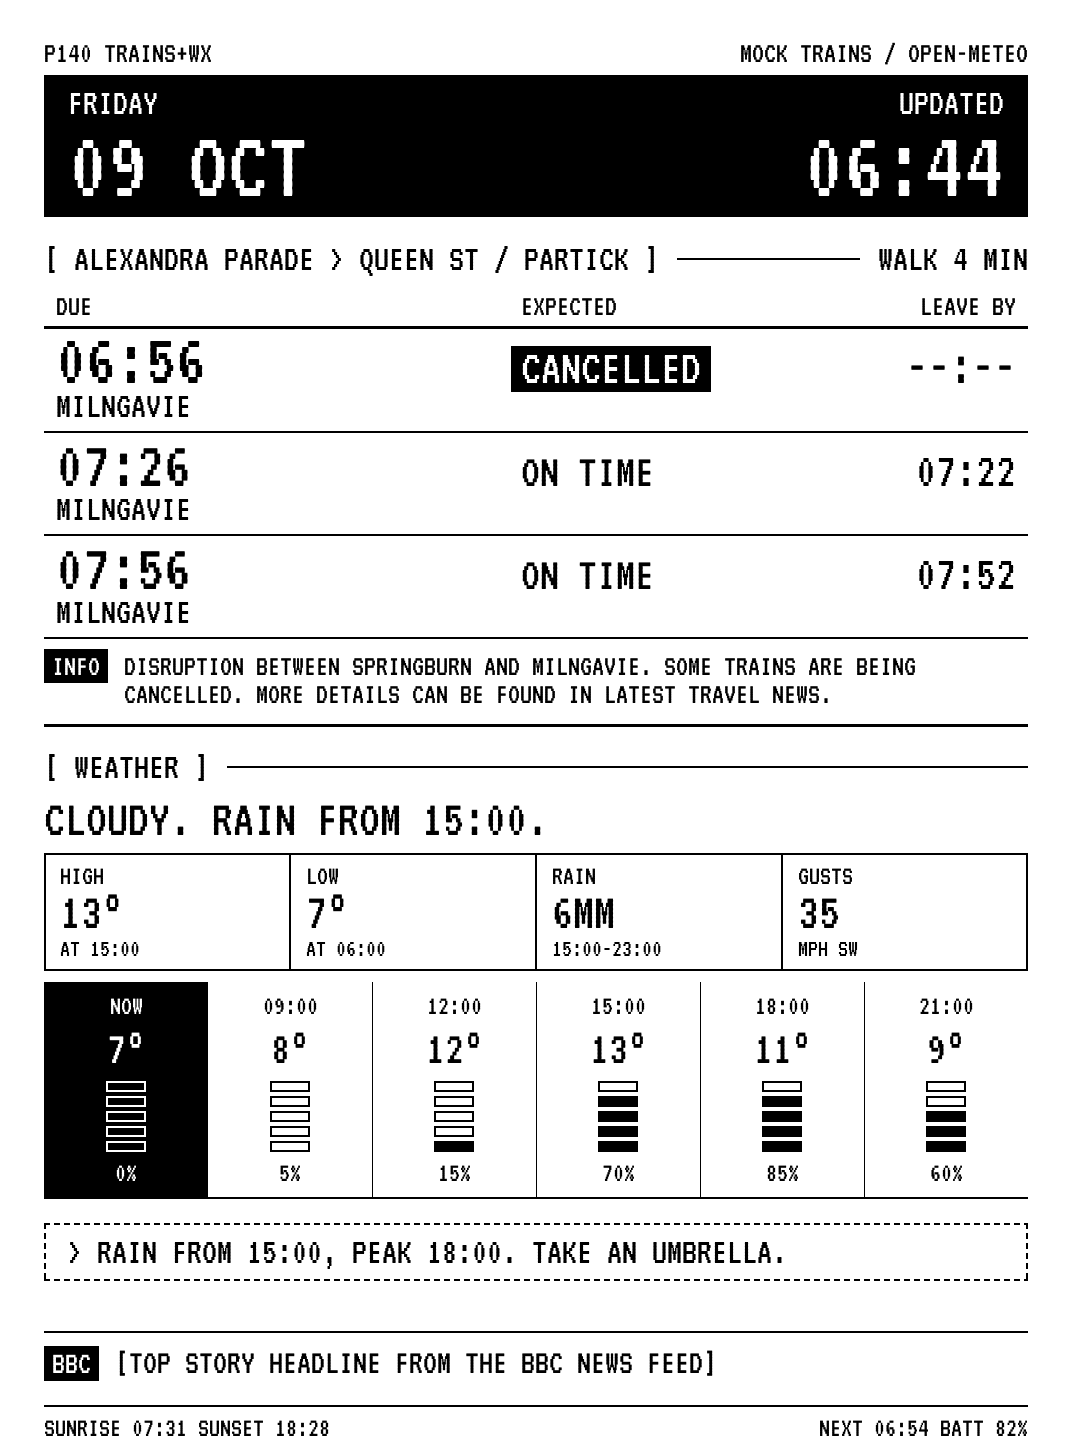
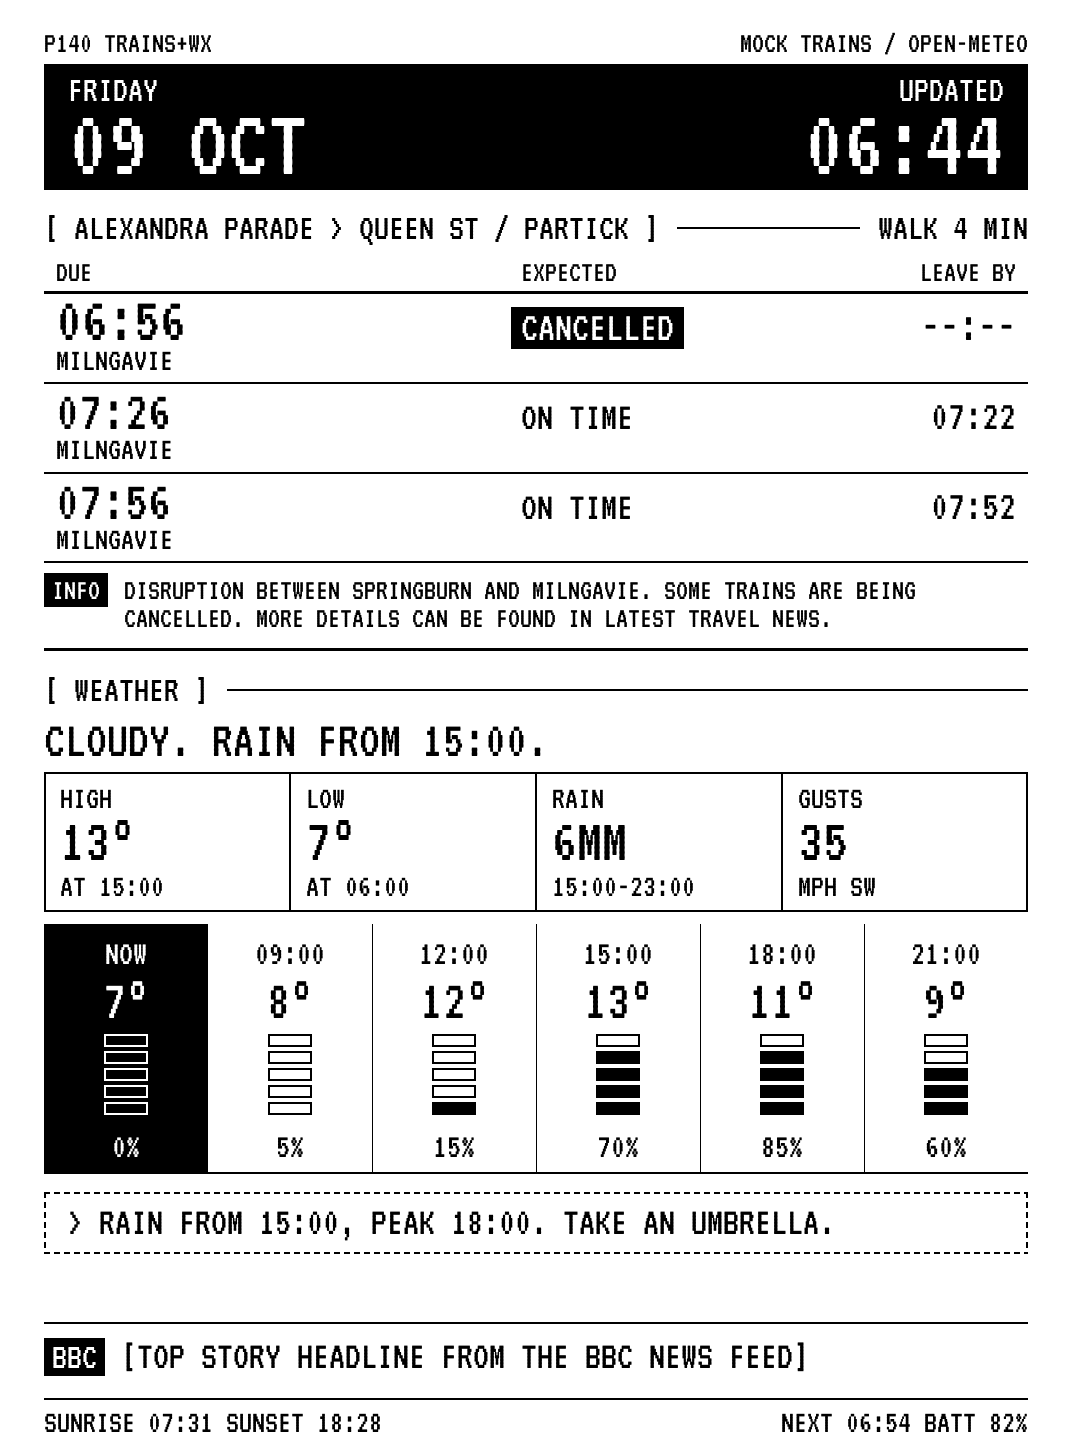
Enlarge the lower half of the dashboard
On the device the weather, headline and footer text read small. Take
space from the date band and train rows (132 -> 118 px each) and give it
to the bottom half:

- weather boxes: labels 27.5 -> 32.5, values 52.5 -> 62.5, sub-lines
  25 -> 32.5 (boxes 118 -> 140 px tall)
- hourly strip: times and percentages 27.5 -> 35, temperatures
  47.5 -> 57.5, bigger rain gauges
- notice 37.5 -> 40, headline 35 -> 40, footer 27.5 -> 32.5

Rows squeezed by a service message scale their text down slightly.
Positions are now named constants. Warm-up prepares the new sizes.

Claude-Session: https://claude.ai/code/session_019HivdSh6WRKFXGyqMKgbBE

Changed region(s): [[0.0308, 0.0, 0.9851, 0.8702], [0.0308, 0.9012, 0.9543, 0.9945]]

diff --git a/worker/src/layout.ts b/worker/src/layout.ts
@@ -1,5 +1,7 @@
-// Draws the dashboard. Positions follow docs/mockup.png (which is drawn at
-// 2x; everything here is in device pixels for a 1072x1448 Paperwhite).
+// Draws the dashboard. The layout follows docs/mockup.png (which is drawn at
+// 2x; everything here is in device pixels for a 1072x1448 Paperwhite), with
+// the departures a little tighter and the weather, headline and footer text
+// larger so they read comfortably on the device.
 //
 // Font sizes are multiples of 2.5 px so VT323's 0.4 em advance lands on
 // whole pixels and columns of digits line up.
@@ -14,7 +16,7 @@ export const WIDTH = 1072;
 export const HEIGHT = 1448;
 
 /** Every text size used below, so glyphs can be prepared at startup. */
-export const FONT_SIZES = [25, 27.5, 30, 32.5, 35, 37.5, 47.5, 50, 52.5, 55, 67.5, 75, 100] as const;
+export const FONT_SIZES = [30, 32.5, 35, 37.5, 40, 42.5, 45, 47.5, 50, 52.5, 55, 57.5, 62.5, 67.5, 75, 100] as const;
 
 const L = 44; // left margin
 const R = 1028; // right margin
@@ -22,12 +24,26 @@ const CW = R - L;
 const INSET = 12; // column inset inside the departures table
 const STATUS_X = 521; // EXPECTED column
 
-const ROWS_TOP = 329;
-const ROWS_BOTTOM = 724;
-const STRIP_BOTTOM = 1199;
-const NOTICE_TOP = 1223;
-const FOOTER_BASE = 1436;
-const FOOTER_RULE = 1405;
+// Vertical positions, top to bottom.
+const TOP_LINE = 52; // baseline of "P140 TRAINS+WX"
+const BAND_TOP = 64; // reversed-out date/time band
+const BAND_H = 126;
+const TRAINS_HEADING = 239;
+const COLUMN_HEADS = 281;
+const ROWS_TOP = 294;
+const ROWS_BOTTOM = 648;
+const WEATHER_HEADING = 701;
+const SUMMARY = 756;
+const BOXES_TOP = 772;
+const BOXES_H = 140;
+const STRIP_TOP = 924;
+const STRIP_BOTTOM = 1174;
+const NOTICE_TOP = 1192;
+const FOOTER_RULE = 1398;
+const FOOTER_BASE = 1432;
+
+/** Nearest multiple of 2.5 px (keeps character advances on whole pixels). */
+const snap = (size: number) => Math.round(size / 2.5) * 2.5;
 
 class Painter {
   constructor(readonly c: Canvas, readonly font: Font) {}
@@ -96,23 +112,23 @@ export function drawDashboard(font: Font, m: DashboardModel): Canvas {
 }
 
 function drawHeader(p: Painter, m: DashboardModel): void {
-  p.text("P140 TRAINS+WX", L, 62, 30);
-  p.text(m.trainSource === "live" ? "NRE DARWIN / OPEN-METEO" : "MOCK TRAINS / OPEN-METEO", R, 62, 30, BLACK, "right");
+  p.text("P140 TRAINS+WX", L, TOP_LINE, 30);
+  p.text(m.trainSource === "live" ? "NRE DARWIN / OPEN-METEO" : "MOCK TRAINS / OPEN-METEO", R, TOP_LINE, 30, BLACK, "right");
 
-  p.c.fillRect(L, 75, CW, 142, BLACK);
-  p.text(m.now.weekday, L + 24, 114, 37.5, WHITE);
-  p.text(m.now.dayMonth, L + 24, 196, 100, WHITE);
-  p.text("UPDATED", R - 24, 114, 37.5, WHITE, "right");
-  p.text(m.now.hhmm, R - 24, 196, 100, WHITE, "right");
+  p.c.fillRect(L, BAND_TOP, CW, BAND_H, BLACK);
+  p.text(m.now.weekday, L + 24, BAND_TOP + 37, 37.5, WHITE);
+  p.text(m.now.dayMonth, L + 24, BAND_TOP + BAND_H - 16, 100, WHITE);
+  p.text("UPDATED", R - 24, BAND_TOP + 37, 37.5, WHITE, "right");
+  p.text(m.now.hhmm, R - 24, BAND_TOP + BAND_H - 16, 100, WHITE, "right");
 }
 
 function drawTrains(p: Painter, m: DashboardModel): void {
-  p.heading(`[ ${m.stationName} > ${m.headingTo} ]`, `WALK ${m.walkMinutes} MIN`, 270);
+  p.heading(`[ ${m.stationName} > ${m.headingTo} ]`, `WALK ${m.walkMinutes} MIN`, TRAINS_HEADING);
 
-  p.text("DUE", L + INSET, 315, 30);
-  p.text("EXPECTED", STATUS_X, 315, 30);
-  p.text("LEAVE BY", R - INSET, 315, 30, BLACK, "right");
-  p.c.hLine(L, R, 326, 3, BLACK);
+  p.text("DUE", L + INSET, COLUMN_HEADS, 30);
+  p.text("EXPECTED", STATUS_X, COLUMN_HEADS, 30);
+  p.text("LEAVE BY", R - INSET, COLUMN_HEADS, 30, BLACK, "right");
+  p.c.hLine(L, R, ROWS_TOP - 3, 3, BLACK);
   p.c.hLine(L, R, ROWS_BOTTOM, 3, BLACK);
 
   if (!m.trains.ok) {
@@ -154,9 +170,12 @@ function drawDepartures(p: Painter, data: TrainsData): void {
 }
 
 function drawRow(p: Painter, d: Departure, top: number, rowH: number, first: boolean): void {
-  const timeSize = first ? 75 : 67.5;
-  const statusSize = first ? 50 : 47.5;
-  const leaveSize = first ? 55 : 50;
+  // Rows squeezed by a service message get slightly smaller text.
+  const k = rowH < 110 ? 0.85 : 1;
+  const timeSize = snap((first ? 75 : 67.5) * k);
+  const statusSize = snap((first ? 50 : 47.5) * k);
+  const leaveSize = snap((first ? 55 : 50) * k);
+  const destSize = snap(37.5 * k);
   const base = top + Math.round(rowH * 0.52);
   const destBase = top + Math.round(rowH * 0.85);
 
@@ -176,29 +195,29 @@ function drawRow(p: Painter, d: Departure, top: number, rowH: number, first: boo
     if (d.status === "late" || d.status === "delayed") p.c.strokeRect(STATUS_X - 10, base - cap - 9, w + 20, cap + 18, 3, BLACK);
   }
 
-  p.text(d.destination, L + INSET, destBase, 37.5, BLACK, "left", CW - 2 * INSET);
+  p.text(d.destination, L + INSET, destBase, destSize, BLACK, "left", CW - 2 * INSET);
 }
 
 /** Returns the y just below the last thing drawn (for footer spacing). */
 function drawWeather(p: Painter, m: DashboardModel): number {
   const asOf = m.weather.ok && m.weather.asOf ? `AS OF ${m.weather.asOf}` : null;
-  p.heading("[ WEATHER ]", asOf, 778, 30);
+  p.heading("[ WEATHER ]", asOf, WEATHER_HEADING, 30);
 
   if (!m.weather.ok) {
-    p.text("WEATHER UNAVAILABLE", L, 835, 52.5);
-    p.unavailable(853, STRIP_BOTTOM, "FORECAST UNAVAILABLE", m.weather.error);
+    p.text("WEATHER UNAVAILABLE", L, SUMMARY, 52.5);
+    p.unavailable(BOXES_TOP, STRIP_BOTTOM, "FORECAST UNAVAILABLE", m.weather.error);
     return STRIP_BOTTOM;
   }
   const w = m.weather.data;
-  p.text(w.summary, L, 835, 52.5, BLACK, "left", CW);
+  p.text(w.summary, L, SUMMARY, 52.5, BLACK, "left", CW);
   drawBoxes(p, w);
   drawStrip(p, w);
   return drawNotices(p, w.notices);
 }
 
 function drawBoxes(p: Painter, w: WeatherView): void {
-  const top = 853;
-  const h = 118;
+  const top = BOXES_TOP;
+  const h = BOXES_H;
   const bw = CW / 4;
   p.c.strokeRect(L, top, CW, h, 2, BLACK);
   for (let k = 1; k < 4; k++) p.c.vLine(Math.round(L + k * bw) - 1, top, top + h, 2, BLACK);
@@ -212,14 +231,14 @@ function drawBoxes(p: Painter, w: WeatherView): void {
   boxes.forEach(([label, value, sub], k) => {
     const x = Math.round(L + k * bw) + 16;
     const max = Math.round(bw) - 28;
-    p.text(label, x, top + 31, 27.5, BLACK, "left", max);
-    p.text(value, x, top + 75, 52.5, BLACK, "left", max);
-    p.text(sub, x, top + 103, 25, BLACK, "left", max);
+    p.text(label, x, top + 36, 32.5, BLACK, "left", max);
+    p.text(value, x, top + 88, 62.5, BLACK, "left", max);
+    p.text(sub, x, top + 124, 32.5, BLACK, "left", max);
   });
 }
 
 function drawStrip(p: Painter, w: WeatherView): void {
-  const top = 982;
+  const top = STRIP_TOP;
   const colW = CW / 6;
   p.c.hLine(L, R, STRIP_BOTTOM - 2, 2, BLACK);
   w.hours.forEach((slot, k) => {
@@ -229,54 +248,56 @@ function drawStrip(p: Painter, w: WeatherView): void {
     if (k === 0) p.c.fillRect(x0, top, x1 - x0, STRIP_BOTTOM - top, BLACK);
     if (k > 1) p.c.vLine(x0, top, STRIP_BOTTOM, 1, BLACK);
     const cx = Math.round((x0 + x1) / 2);
-    p.text(slot.label, cx, 1014, 27.5, color, "center");
-    p.text(`${slot.temp}°`, cx, 1063, 47.5, color, "center");
+    p.text(slot.label, cx, top + 40, 35, color, "center");
+    p.text(`${slot.temp}°`, cx, top + 94, 57.5, color, "center");
 
     // Rain-chance gauge: five segments, filled from the bottom, 20% each.
     const filled = Math.min(5, Math.max(0, Math.round(slot.chance / 20)));
     for (let s = 0; s < 5; s++) {
-      const y = 1081 + s * 15;
-      if (4 - s < filled) p.c.fillRect(cx - 20, y, 40, 11, color);
-      else p.c.strokeRect(cx - 20, y, 40, 11, 2, color);
+      const y = top + 110 + s * 17;
+      if (4 - s < filled) p.c.fillRect(cx - 22, y, 44, 13, color);
+      else p.c.strokeRect(cx - 22, y, 44, 13, 2, color);
     }
-    p.text(`${slot.chance}%`, cx, 1181, 27.5, color, "center");
+    p.text(`${slot.chance}%`, cx, top + 233, 35, color, "center");
   });
 }
 
 function drawNotices(p: Painter, notices: string[]): number {
   if (notices.length === 0) return STRIP_BOTTOM;
-  const size = 37.5;
+  const size = 40;
+  const lineH = 34;
   const maxW = CW - 46;
   // At most two lines: one per notice, or one notice wrapped over two.
   const lines =
     notices.length === 1
       ? p.wrap(`> ${notices[0]}`, size, maxW, 2)
       : notices.slice(0, 2).map((n) => `> ${n}`);
-  const h = 58 + (lines.length - 1) * 30;
+  const h = 62 + (lines.length - 1) * lineH;
   p.c.dashedRect(L, NOTICE_TOP, CW, h, 2, 6, 4, BLACK);
-  lines.forEach((line, i) => p.text(line, L + 23, NOTICE_TOP + 40 + i * 30, size, BLACK, "left", maxW));
+  lines.forEach((line, i) => p.text(line, L + 23, NOTICE_TOP + 42 + i * lineH, size, BLACK, "left", maxW));
   return NOTICE_TOP + h;
 }
 
 function drawFooter(p: Painter, m: DashboardModel, contentBottom: number): void {
   const sun = m.weather.ok ? m.weather.data : null;
-  p.text(`SUNRISE ${sun?.sunrise ?? "--:--"} SUNSET ${sun?.sunset ?? "--:--"}`, L, FOOTER_BASE, 27.5);
-  p.text(`NEXT ${m.nextRefresh ?? "--:--"} BATT ${m.battery ?? "--"}%`, R, FOOTER_BASE, 27.5, BLACK, "right");
+  p.text(`SUNRISE ${sun?.sunrise ?? "--:--"} SUNSET ${sun?.sunset ?? "--:--"}`, L, FOOTER_BASE, 32.5);
+  p.text(`NEXT ${m.nextRefresh ?? "--:--"} BATT ${m.battery ?? "--"}%`, R, FOOTER_BASE, 32.5, BLACK, "right");
   p.c.hLine(L, R, FOOTER_RULE, 2, BLACK);
 
   if (!m.headline) return;
-  const size = 35;
-  const badgeSize = 32.5;
+  const size = 40;
+  const lineH = 40;
+  const badgeSize = 37.5;
   const badgeW = p.width("BBC", badgeSize) + 16;
   const textX = L + badgeW + 16;
-  const lastBase = FOOTER_RULE - 32;
-  const ruleFor = (lines: number) => lastBase - (lines - 1) * 36 - 42;
+  const lastBase = FOOTER_RULE - 30;
+  const ruleFor = (lines: number) => lastBase - (lines - 1) * lineH - 46;
 
   const story = m.headline.ok ? m.headline.data : `[HEADLINE UNAVAILABLE: ${m.headline.error}]`;
   const maxLines = ruleFor(2) >= contentBottom + 14 ? 2 : 1;
   const lines = p.wrap(story, size, R - textX, maxLines);
-  const firstBase = lastBase - (lines.length - 1) * 36;
+  const firstBase = lastBase - (lines.length - 1) * lineH;
   p.c.hLine(L, R, ruleFor(lines.length), 2, BLACK);
   p.badge("BBC", L, firstBase, badgeSize);
-  lines.forEach((line, i) => p.text(line, textX, firstBase + i * 36, size));
+  lines.forEach((line, i) => p.text(line, textX, firstBase + i * lineH, size));
 }

diff --git a/worker/src/render/warmup.ts b/worker/src/render/warmup.ts
@@ -10,9 +10,9 @@ import { renderDashboardPng } from ".";
 import type { Font } from "./text";
 
 const CHARS = " !\"#$%&'()*+,-./0123456789:;<=>?@ABCDEFGHIJKLMNOPQRSTUVWXYZ[\\]^_`{|}~°";
-// Sizes above this only show times and the date, so need fewer characters.
+// Sizes above this only show times, the date and weather figures.
 const LARGE = 55;
-const LARGE_CHARS = " 0123456789:-ABCDEFGHIJKLMNOPQRSTUVWXYZ";
+const LARGE_CHARS = " 0123456789:-.\u00b0ABCDEFGHIJKLMNOPQRSTUVWXYZ";
 
 function sampleModel(): DashboardModel {
   return {
